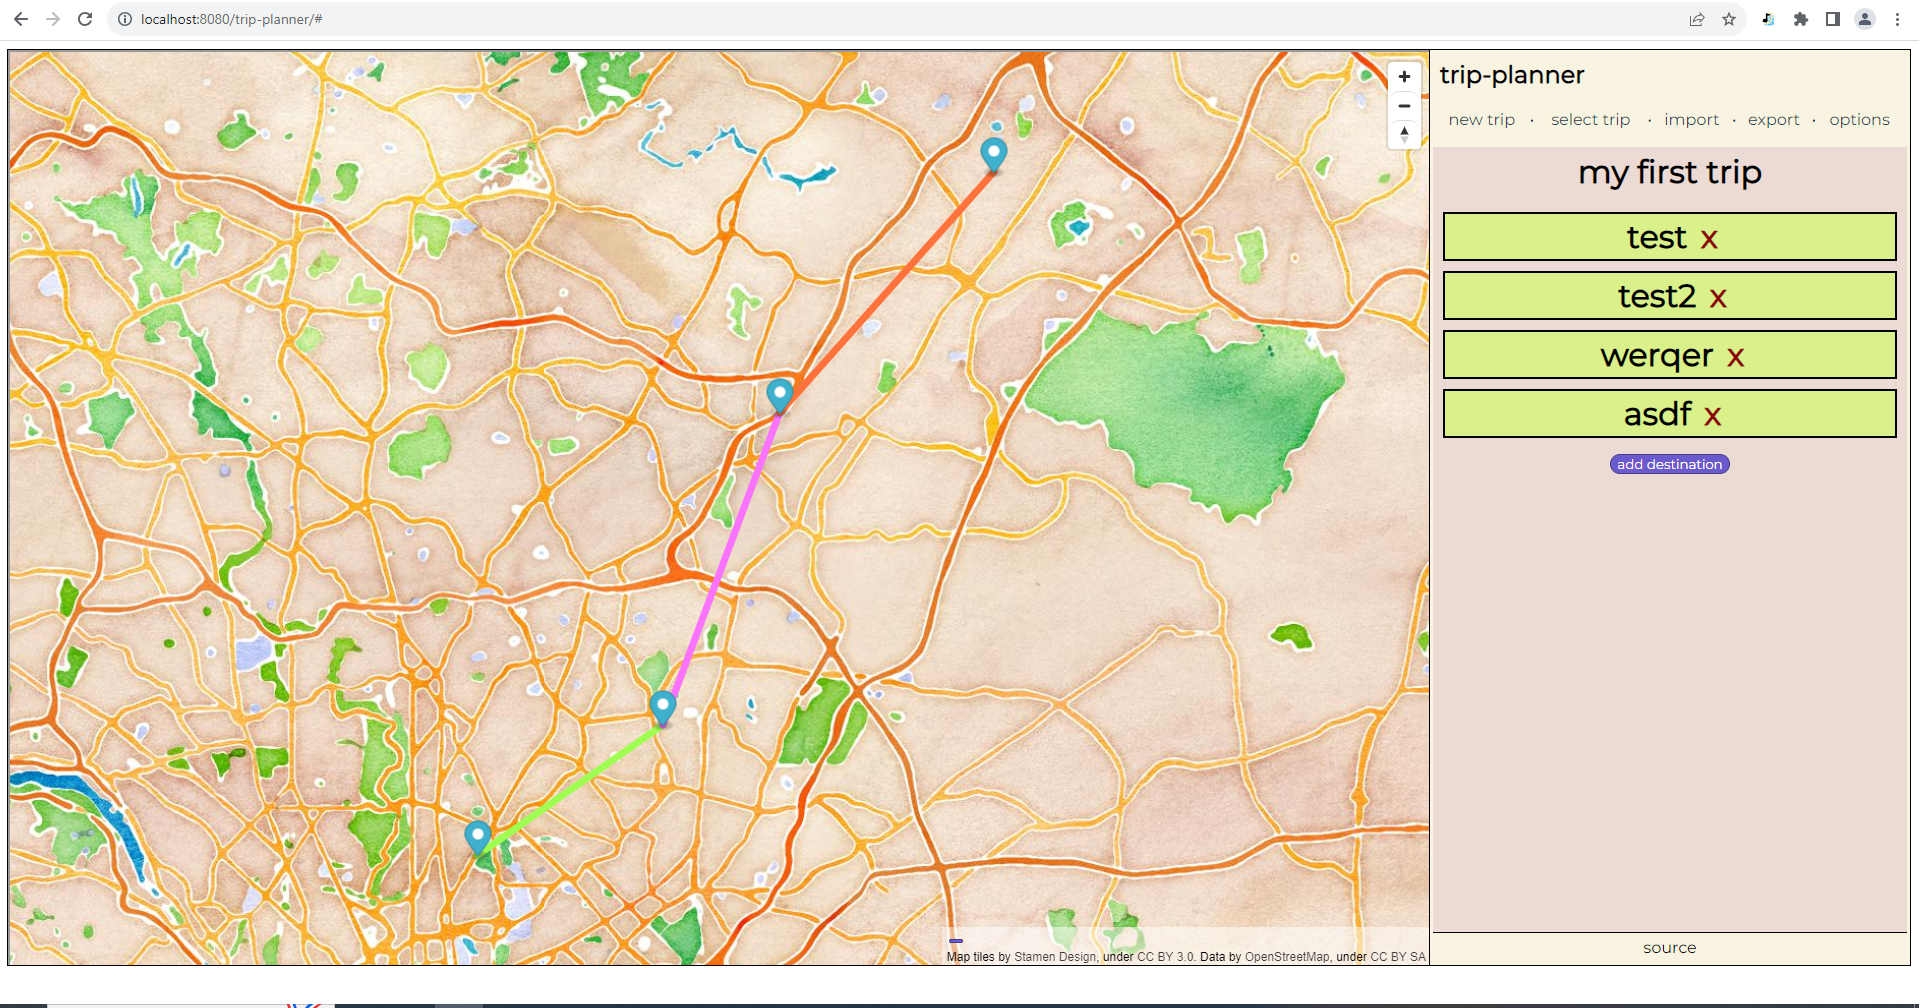
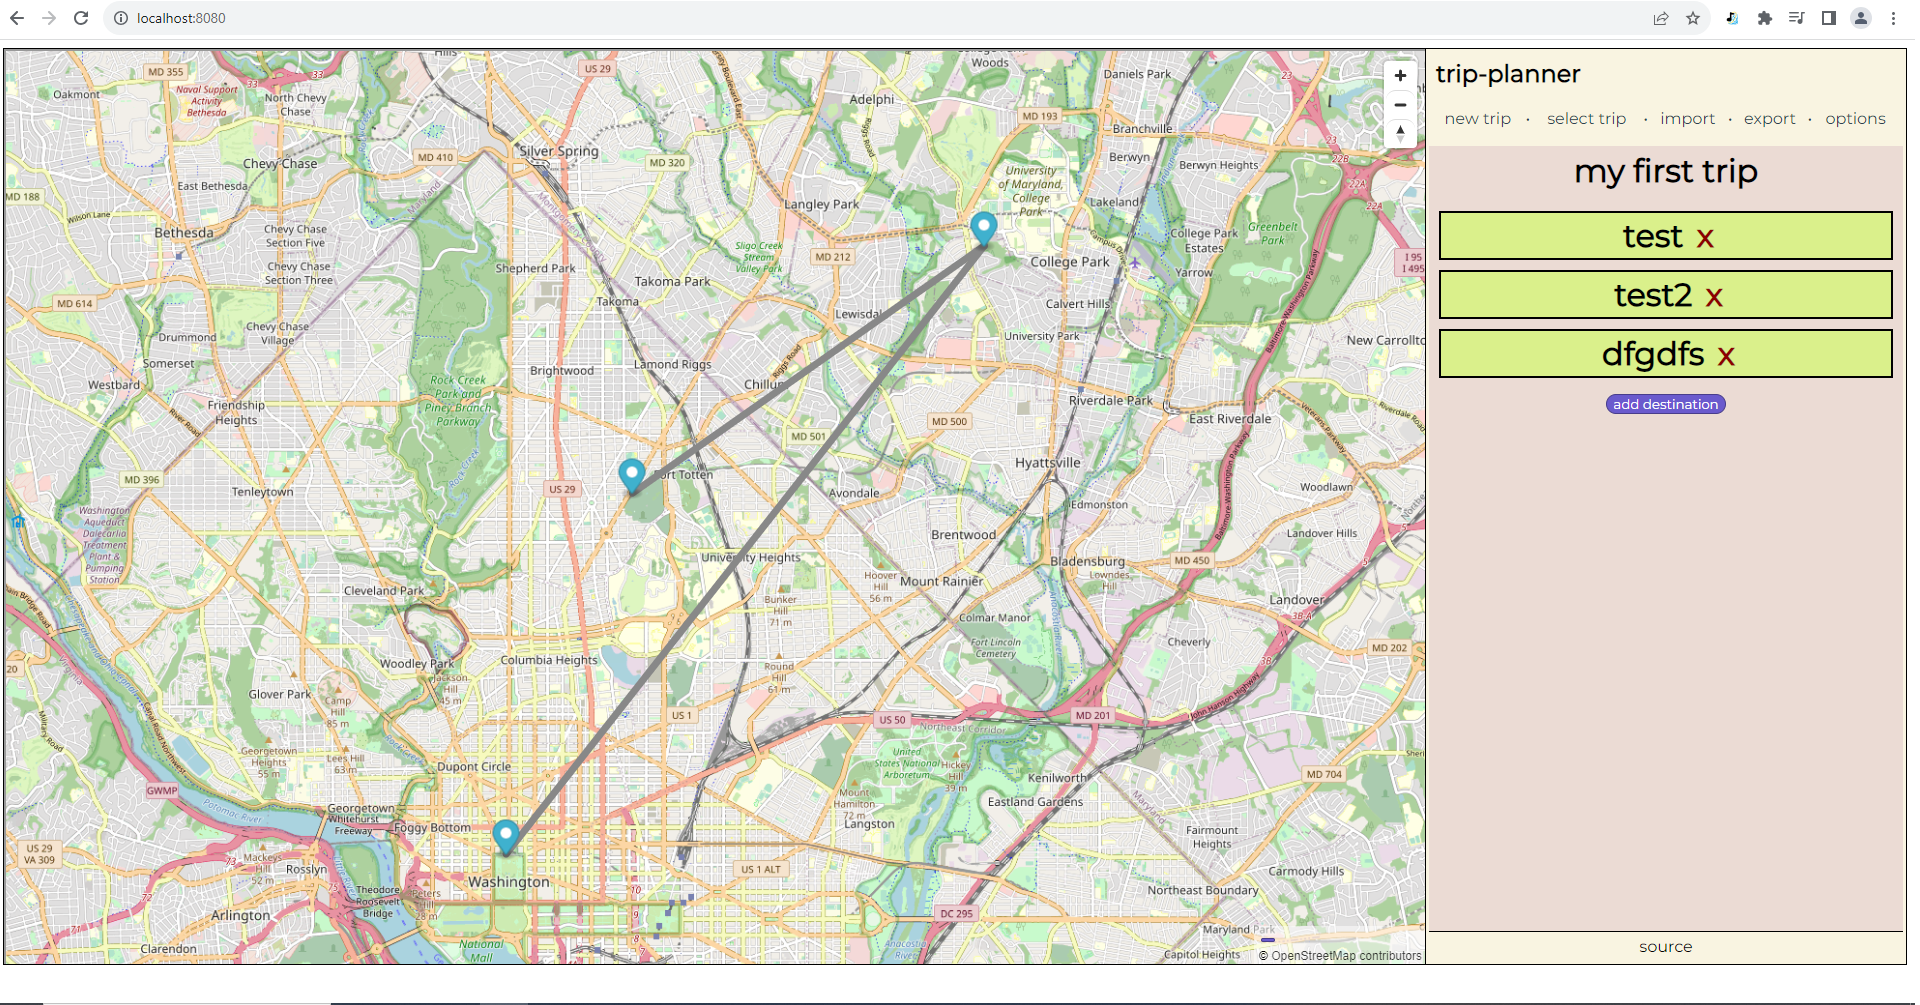
Update map styles (#22)
* update map styles

* edit screenshots, readme

diff --git a/src/utils/modal.ts b/src/utils/modal.ts
@@ -183,7 +183,7 @@ export class Modal {
         modal.style.textAlign = ""; // no center alignment for options
         
         const experimentalNoteText = document.createElement('p');
-        experimentalNoteText.textContent = "this feature is experimental. please don't expect too much :)";
+        experimentalNoteText.textContent = "experimental feature. please don't expect too much :)";
         experimentalNoteText.style.fontWeight = "bold";
         experimentalNoteText.style.fontSize = "12px";
         
@@ -336,7 +336,8 @@ export class Modal {
         appearanceOptionsSectionText.style.textAlign = "center";
         modal.appendChild(appearanceOptionsSectionText);
         
-        // select for type of map to display
+        // stamen maps no longer work :(
+        /* select for type of map to display
         const mapTypeSelect = document.createElement('select');
         mapTypeSelect.id = "mapTypeSelect";
 
@@ -364,6 +365,7 @@ export class Modal {
         modal.appendChild(mapTypeSelect);
         
         modal.appendChild(document.createElement('br'));
+        */
         
         // select theme
         const themeSelect = document.createElement('select');
@@ -420,7 +422,7 @@ export class Modal {
                 resolve({
                     dataSource: !overpassApiSelect.disabled ? "overpassApi" : "database",
                     overpassApiEntity: overpassApiSelect.value,
-                    mapType: mapTypeSelect.value,
+                    mapType: "", //mapTypeSelect.value,
                     theme: themeSelect.value,
                     showLocationLookup: toggleLocationSearchBar.checked.toString(),
                     showSuggestedDestinations: toggleSuggestedDestinations.checked.toString(),

diff --git a/public/map.ts b/public/map.ts
@@ -35,10 +35,10 @@ class MapBoxWrapper {
                 'raster-tiles': {
                     'type': 'raster',
                     'tiles': [
-                        'https://stamen-tiles.a.ssl.fastly.net/watercolor/{z}/{x}/{y}.jpg'
+                        'https://tile.openstreetmap.org/{z}/{x}/{y}.png'
                     ],
                     'tileSize': 256,
-                    'attribution': 'Map tiles by <a target="_top" rel="noopener" href="http://stamen.com">Stamen Design</a>, under <a target="_top" rel="noopener" href="http://creativecommons.org/licenses/by/3.0">CC BY 3.0</a>. Data by <a target="_top" rel="noopener" href="http://openstreetmap.org">OpenStreetMap</a>, under <a target="_top" rel="noopener" href="http://creativecommons.org/licenses/by-sa/3.0">CC BY SA</a>'
+                    'attribution': '© <a href="https://www.openstreetmap.org/copyright"> OpenStreetMap contributors </a>'
                 }
             },
             'layers': [
@@ -129,13 +129,14 @@ class MapBoxWrapper {
         return this.map;
     }
     
+    // TODO: need new map options because https://maps.stamen.com/stadia-partnership/
     changeMapStyle(mapType: string): void {
         // maybe helpful? https://github.com/mapbox/mapbox-gl-js/issues/2941
         const currStyle = this.map.getStyle() as any;  // TODO: don't use any?
         if(currStyle === null){
             return;
         }
-
+        
         let newMapType = 'https://stamen-tiles.a.ssl.fastly.net/watercolor/{z}/{x}/{y}.jpg';
 
         if(mapType === "toner"){

diff --git a/README.md b/README.md
@@ -21,9 +21,6 @@ the main page
 ![destination details](screenshots/screenshot2.png)    
 destination details   
     
-![marker tooltip](screenshots/screenshot4.png)    
-marker tooltip info    
-    
 ![trip dropdown menu](screenshots/screenshot3.png)    
 choosing a different trip    
     
